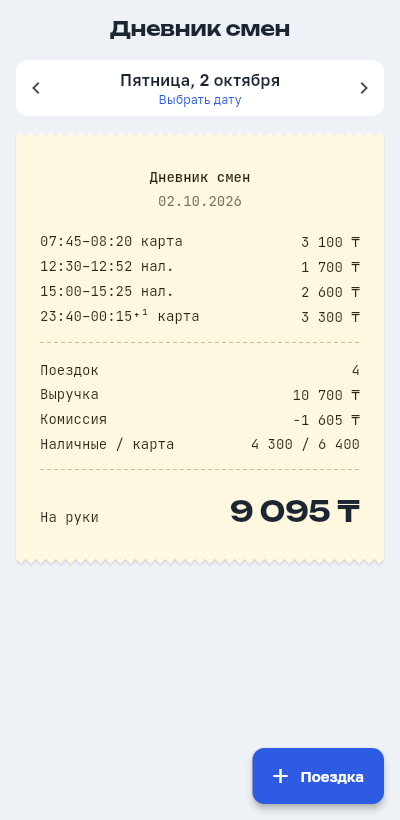
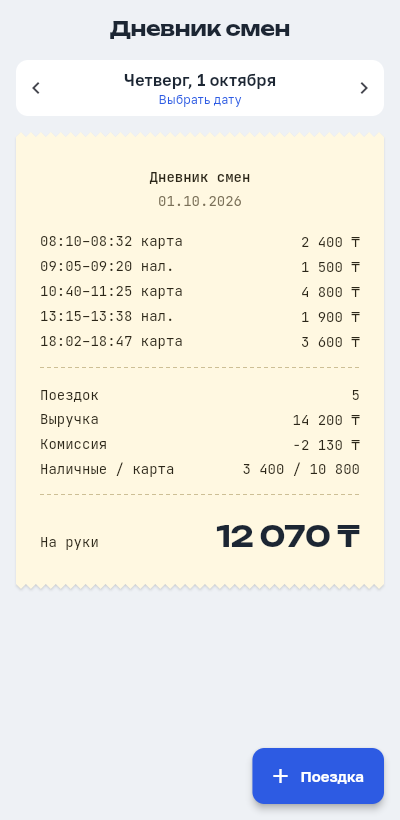
Docs: demo links, screenshots from live demo, submission text

diff --git a/docs/SUBMISSION.md b/docs/SUBMISSION.md
@@ -1,0 +1,42 @@
+# Что вставить в анкету
+
+Поля из блока «Выполненное задание» на [jobs.arqa.cc](https://jobs.arqa.cc/#task). Перед отправкой перечитай и поправь формулировки под себя: это твои ответы, их оценивают.
+
+## Ссылка на публичный репозиторий
+
+```
+https://github.com/WebDiyar/arqa_flutter
+```
+
+## Демо или скриншоты (необязательно)
+
+```
+https://driver-diary.onrender.com
+```
+
+Скриншоты лежат в репозитории: [docs/screenshots/](screenshots/), они же показаны в начале README.
+
+## Как вы использовали ИИ: где помог, где ошибся и что вы исправили сами
+
+> Работал с Claude Code. Я задавал рамки: Dart-сервер и Flutter-клиент, слои Clean Architecture, правила дублей и поведение без сети. ИИ писал код и тесты, я проверял результат тестами, `curl`-ами и руками в браузере, в том числе с отключённой сетью.
+>
+> **Где помог:** каркас сервера и клиента, 54 теста, Dockerfile и CI.
+>
+> **Где ошибся и что поправили:**
+> 1. `AddTrip` возвращал `Future`, но не был `async`, поэтому ошибка валидации вылетала синхронно, мимо обработчиков. Поймал тест, добавил `async`.
+> 2. Нижний лист с деталями поездки обрезал кнопку «Удалить» на невысоком экране (по умолчанию лист не выше 9/16 экрана). Поймал widget-тест, сделал лист скроллируемым.
+> 3. После перехода на «сначала кэш, потом сервер» pull-to-refresh завершался мгновенно: `provider.future` завершается на первом значении, то есть на кэше. Теперь он ждёт ответа сервера.
+> 4. Google Fonts отдал EOT и WOFF под именем `.ttf`, Flutter такие не читает. Нашёл командой `file`, сконвертировал через fontTools.
+> 5. Тест искал сумму с обычным пробелом, а `intl` разделяет разряды неразрывным. Теперь ожидаемая строка строится той же функцией форматирования.
+>
+> **Что решил сам:** день поездки считается по часам водителя (`+05:00`), а не по UTC, поэтому поездка в 00:30 относится к своему дню. Повтор запроса безопасен благодаря клиентскому `id`, который служит ключом идемпотентности, и это же позволило сделать офлайн-очередь. Сводку считает только сервер.
+
+Если в анкете есть лимит символов, оставь пункты 1–3 и абзац «что решил сам».
+
+## Перед отправкой
+
+- [ ] Репозиторий публичный: открой ссылку в режиме инкогнито.
+- [ ] Демо открывается (при первом заходе подожди до минуты), на 1 октября «на руки» 12 070 ₸.
+- [ ] README в репозитории показывает скриншоты и ссылку на демо.
+- [ ] Зелёная галочка CI на последнем коммите (вкладка Actions).
+- [ ] Ответы на 6 вопросов анкеты написаны своими словами.
